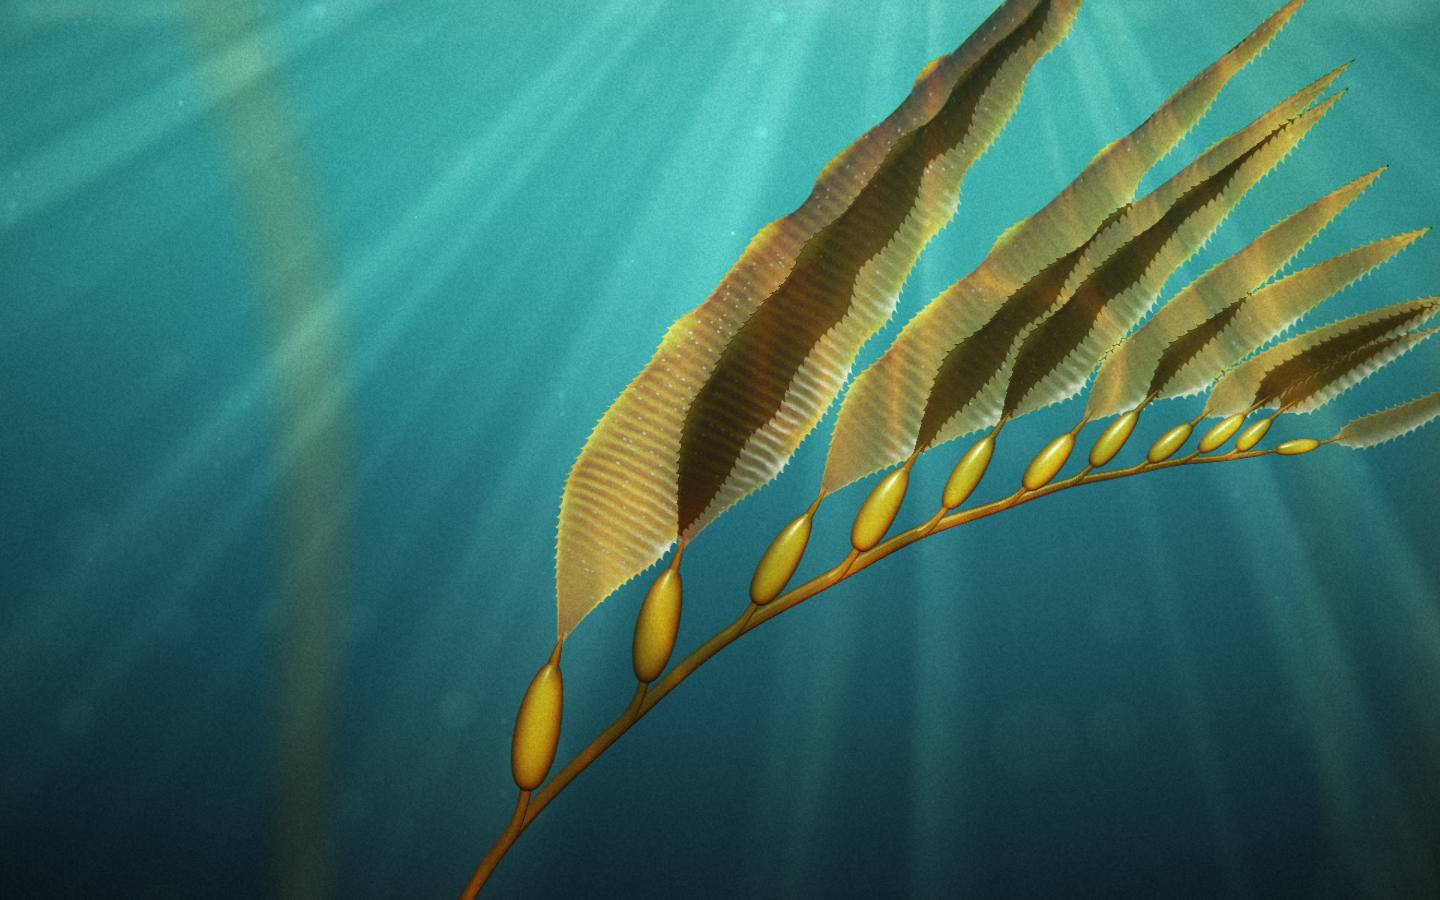
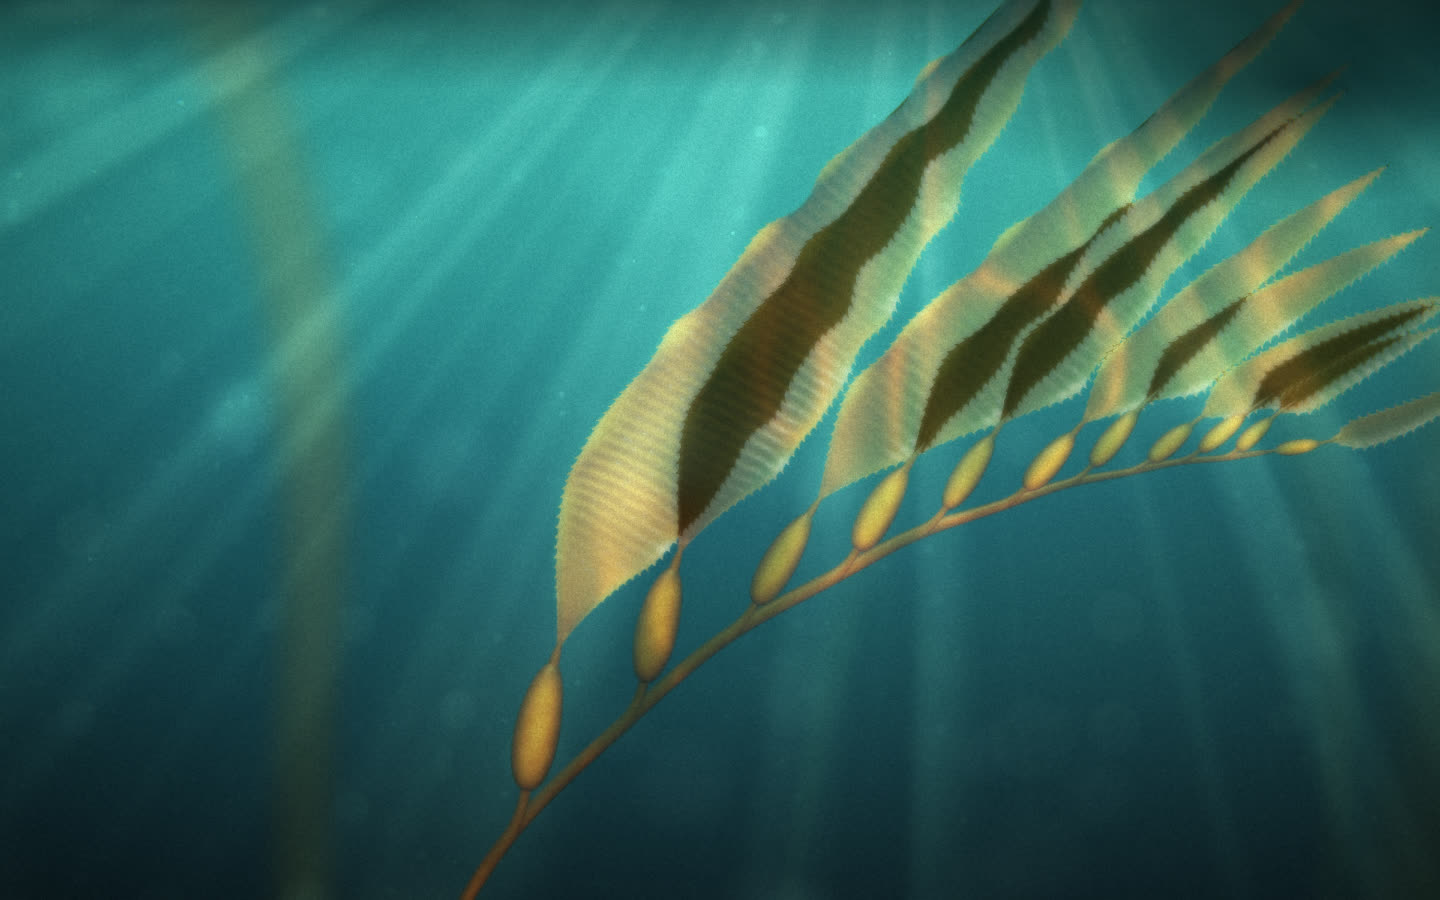
017: Kelp sits in the water, softer, with marine snow and less plastic floats

Changed region(s): [[0.0, 0.0, 1.0, 0.9333], [0.3125, 0.9644, 0.3438, 1.0]]

diff --git a/017/shaders.ts b/017/shaders.ts
@@ -3,6 +3,16 @@ export const FIELD_S = 64; // billow cells along each blade
 export const FIELD_U = 9; // and across it
 export const SPINE_W = 160; // samples per spine row
 
+// UNDERWATER
+const VEIL_MIX = 0.16; // raise for more water over the frond
+const SOFT_MIX = 0.45; // raise for a softer frond
+const HALATION_MIX = 0.55; // raise for more glow off the sunlit blades
+const BOKEH_SHARE = 0.06; // raise for more discs in front of the lens
+const BOKEH_GAIN = 0.11; // raise for brighter discs
+const GRAIN_MIX = 0.034; // raise for more grain
+const GRAIN_FROND = 0.15; // raise for more grain on the frond than the water
+const glf = (v: number) => v.toFixed(3);
+
 const HEAD = `#version 300 es
 precision highp float;
 `;
@@ -122,7 +132,7 @@ uniform vec2 uRes;
 out vec4 o;
 ${NOISE}
 void main() {
-  o = vec4(texture(uBg, gl_FragCoord.xy / uRes).rgb + (hash12(gl_FragCoord.xy) - .5) / 255., 1.);
+  o = vec4(texture(uBg, gl_FragCoord.xy / uRes).rgb + (hash12(gl_FragCoord.xy) - .5) / 255., 0.);
 }
 `;
 
@@ -190,6 +200,14 @@ vec3 sheen(vec3 N, vec3 V, float shaft, float lightY, float hard) {
   vec3 hi = vec3(1., .93, .75) * (pow(rl, hard) * 2. + pow(rl, 12.) * .25) * (.4 + 2. * shaft + lightY);
   float satin = pow(rl, 5.) * .16 + pow(max(R.y, 0.), 3.) * .06;
   return (env * .55 + hi) * fr + hi * .06 + vec3(1., .9, .7) * satin * (.4 + shaft + lightY);
+}
+// VEIL
+// the water between the eye and the frond, thicker for the far parts, so it shares the background's light
+vec3 veil(vec3 col, vec3 bg, vec3 pos, float shaft, float extra) {
+  float dist = length(uCam - pos);
+  float k = ${glf(VEIL_MIX)} + clamp((dist - uCam.z + .6) * .17, 0., .34) + clamp(-pos.z * .42, 0., .21) + extra;
+  vec3 water = bg * vec3(.78, 1.04, 1.02) + vec3(.004, .016, .016) + vec3(.03, .07, .06) * shaft;
+  return mix(col, water, clamp(k, 0., .8));
 }
 `;
 
@@ -362,20 +380,22 @@ void main() {
   vec3 col = through(tau, N, V, vPos, bg, shaft, lightY, caus);
   // the side of each pucker that faces the sun takes a little more of it
   col *= 1. + 1.1 * dot(N - N0, normalize(L));
-  // warm amber-brown, deeper than the lemon-gold stipe and floats
-  col *= vec3(1.06, .88, .66);
+  // COLOUR
+  // warm amber-brown, deeper than the lemon-gold stipe and floats, patchy from blade to blade
+  float blot = noise2(vec2(x * 3.1, sg * 1.3) + vB.z * 2.7);
+  col *= mix(vec3(1.1, .86, .58), vec3(1.02, .9, .66), blot);
   col += vec3(.012, .04, .04) * (.6 + .4 * N.y);
-  col = mix(col, vec3(.5, .54, .48) * (.25 + .5 * lightY + 1.3 * shaft), speck * .7);
-  col += sheen(N, V, shaft + caus * .4, lightY, 40.);
+  // BACKLIGHT
+  // thin tissue facing away from the sun lets it through, warmer the thinner it gets
+  float back = pow(max(dot(-V, normalize(L)), 0.), 2.) * (.4 + lightY + 1.6 * shaft);
+  col += vec3(.4, .22, .04) * exp(-tau * 2.2) * back * (.5 + 1.5 * caus);
+  col = mix(col, vec3(.5, .54, .48) * (.25 + .5 * lightY + 1.3 * shaft), speck * .55);
+  col += sheen(N, V, shaft + caus * .4, lightY, 16.) * .55; // raise for a wetter blade
   // the margin is thinner and glows amber where the sun comes through
   float rim = smoothstep(edge - .14, edge - fw, au);
   col *= 1. + .45 * rim;
   col += vec3(.35, .2, .04) * rim * (.15 + .5 * lightY + shaft) * .3;
-  // HAZE
-  // the far side of the frond sinks into the water
-  float dist = length(uCam - vPos);
-  float haze = clamp((dist - uCam.z + .6) * .16, 0., .5) + clamp(-vPos.z * .6, 0., .3);
-  col = mix(col, bg * vec3(.85, 1., 1.), haze);
+  col = veil(col, bg, vPos, shaft, s * s * .14 + e * .06);
   col *= vig(gl_FragCoord.xy / uRes);
   o = vec4(tone(col), alpha);
 }
@@ -516,28 +536,33 @@ void main() {
   // the stalk end of each bulb is older, darker olive-brown tissue
   float root = (1. - smoothstep(.12, .6, vAlong)) * vBulb;
   float blot = noise2(vec2(vS * 2.3, vPhi * .4)) * rough;
+  // MOTTLE
+  // the float wall is uneven: cloudy thicker patches and a few darker freckles
+  float mot = noise2(vec2(vPhi * 2.2, vS * 34.)) * .65 + noise2(vec2(vPhi * 6., vS * 90.)) * .35;
+  float frk = smoothstep(.72, .86, noise2(vec2(vPhi * 11., vS * 160.)));
   float tau = mix(1.35, 1.05, vBulb) + str * .15 * rough + fib * .3 * rough + blot * .3;
   tau += (1. - nv) * mix(.5, 1., vBulb) * smoothstep(0., .35, vAlong) + vAge * .15 + root * .35;
+  tau += ((mot - .5) * .5 + frk * .25) * vBulb;
   vec3 bg;
   float shaft;
   float lightY;
   float caus;
   vec3 col = through(tau, N, V, vPos, bg, shaft, lightY, caus);
   // WAX
-  // gas inside: light scatters in the wall and the far side glows softly through the near one
-  col *= 1. + vBulb * .6 * pow(nv, 1.5);
-  col += vec3(.42, .2, .04) * vBulb * (.1 + .45 * lightY + shaft + caus * .5) * nv * nv * .32;
+  // gas inside: light scatters in the wall and the far side glows warm through the near one
+  float lit = .1 + .45 * lightY + shaft + caus * .6;
+  col *= 1. + vBulb * .45 * pow(nv, 1.5);
+  col += vec3(.5, .26, .05) * vBulb * lit * smoothstep(.15, 1., nv) * (.75 + .5 * mot) * .3;
+  col += vec3(.36, .2, .05) * vBulb * lit * pow(1. - nv, 2.) * .12;
   col = mix(col, col * vec3(.7, .74, .42), root);
   col *= .95 + .1 * noise2(vec2(vPhi * 14., vS * 120.)) * rough;
   col += vec3(.015, .04, .036) * (.5 + .5 * N.y);
-  // a wet, glossy skin on the bulbs; a duller one on the stipe
-  col += sheen(N, V, shaft + caus * .5, lightY, mix(14., 70., vBulb)) * mix(.45, 1.15, vBulb);
-  // GLOSS
-  // a tight wet highlight on each bulb, with a softer bloom round it
-  float rg = max(dot(reflect(-V, N), normalize(vec3(-.3, .75, .6))), 0.);
-  col += vec3(1., .94, .8) * (pow(rg, 45.) * 2.4 + pow(rg, 9.) * .14) * vBulb * (.45 + lightY + shaft + caus);
+  // SHEEN
+  // broad and soft on the bulbs, duller still on the stipe
+  col += sheen(N, V, shaft + caus * .5, lightY, mix(14., 7., vBulb)) * mix(.45, .3, vBulb); // raise for wetter floats
   // stipe and floats glow a lemon gold, the stipe mottled along its length
-  col *= vec3(1.38, 1.04, .34) * mix(.9 + .2 * blot, 1., vBulb);
+  col *= mix(vec3(1.38, 1.04, .34) * (.9 + .2 * blot), vec3(1.3, 1., .42), vBulb);
+  col = veil(col, bg, vPos, shaft, 0.);
   col *= vig(gl_FragCoord.xy / uRes);
   o = vec4(tone(col), 1.);
 }
@@ -564,7 +589,10 @@ ${NOISE}
 ${RAYS}
 void main() {
   float snow = step(.86, fract(aSeed.w * 13.7 + aSeed.x * 3.1));
-  float z = mix(-3.2, 2.35, aSeed.z);
+  // LENS
+  // a few right in front of the camera, huge and faint
+  float lens = step(${glf(1 - BOKEH_SHARE)}, fract(aSeed.w * 7.3 + aSeed.y * 1.7)) * (1. - snow);
+  float z = mix(mix(-3.2, 2.35, aSeed.z), mix(2.6, 3.05, aSeed.z), lens);
   float dist = uCamZ - z;
   float hh = dist * uTan;
   float sp = .6 + aSeed.w;
@@ -578,12 +606,17 @@ void main() {
   gl_Position = uProj * vec4(v, 1.);
   float coc = abs(z - .25) * .55;
   float size = mix(.5 + aSeed.w * .9, 2.2 + aSeed.w * 2.4, snow) * (2.4 / dist) + coc * coc * 26.;
-  gl_PointSize = clamp(size * uDpr, 1., 90.);
-  vSoft = clamp(coc * .9, mix(.1, .45, snow), .95);
+  size = mix(size, 70. + 90. * aSeed.w, lens);
+  gl_PointSize = clamp(size * uDpr, 1., 400.);
+  vSoft = clamp(coc * .9, mix(.1, .45, snow), mix(.95, .7, lens));
   vSnow = snow * (1. - smoothstep(.3, .7, coc));
   vSeed = aSeed.w * 37.;
   float sh = rays(q * vec2(uAspect, 1.), uTime);
-  vA = (.25 + 2.6 * sh) * (.4 + .6 * (q.y * .5 + .5)) / (1. + coc * coc * 9.) * (.6 + .4 * aSeed.w) * mix(1., .55, snow);
+  // GLINT
+  // fine dust flashes as it turns in a shaft
+  float glint = 1. + 2.5 * sh * pow(noise1(uTime * 1.3 + aSeed.x * 91.), 6.) * (1. - snow);
+  vA = (.25 + 2.6 * sh) * (.4 + .6 * (q.y * .5 + .5)) / (1. + coc * coc * 9.) * (.6 + .4 * aSeed.w) * mix(1., .55, snow) * glint;
+  vA = mix(vA, (${glf(BOKEH_GAIN)} + .6 * sh) * (.5 + .5 * (q.y * .5 + .5)) * (.6 + .4 * aSeed.x), lens);
 }
 `;
 
@@ -601,7 +634,20 @@ void main() {
   float d = length(c) * 2. + rag;
   float disc = 1. - smoothstep(1. - vSoft, 1., d);
   float rim = smoothstep(.6, .95, d) * disc * step(.4, vSoft) * (1. - vSnow);
-  o = vec4(mix(vec3(.6, .8, .72), vec3(.82, .86, .78), vSnow) * vA * (disc * .5 + rim * .12), 1.);
+  o = vec4(mix(vec3(.6, .8, .72), vec3(.82, .86, .78), vSnow) * vA * (disc * .5 + rim * .12), 0.);
+}
+`;
+
+// SOFT
+// the scene at half resolution through a small box, alpha carrying where the frond is
+export const SOFT_FS = `${HEAD}
+uniform sampler2D uScene;
+uniform vec2 uRes;
+out vec4 o;
+void main() {
+  vec2 uv = gl_FragCoord.xy / uRes;
+  vec2 k = .5 / uRes;
+  o = (texture(uScene, uv + k) + texture(uScene, uv - k) + texture(uScene, uv + vec2(k.x, -k.y)) + texture(uScene, uv - vec2(k.x, -k.y))) * .25;
 }
 `;
 
@@ -611,11 +657,13 @@ void main() {
 export const POST_FS = `${HEAD}
 uniform sampler2D uScene;
 uniform sampler2D uBg;
+uniform sampler2D uSoft;
 uniform vec2  uRes;
 uniform float uTime;
 uniform float uRipple; // wobble, device px
 uniform float uFringe; // colour split at the corners, device px
 uniform float uGrain; // grain clump size, device px
+uniform float uBlur; // soft focus radius, device px
 out vec4 o;
 ${NOISE}
 void main() {
@@ -631,9 +679,21 @@ void main() {
   vec2 c = uv - .5;
   float edge = dot(c, c);
   vec2 ca = c * edge * uFringe * 5.6 / uRes;
-  vec3 col = texture(uScene, uv).rgb;
+  vec4 sc = texture(uScene, uv);
+  vec3 col = sc.rgb;
   // the split only shows near the frame edge, so the middle skips the extra taps
   if (edge > .07) col.rb = vec2(texture(uScene, uv + ca).r, texture(uScene, uv - ca).b);
+  // SOFT FOCUS
+  // the frond seen through a hand of water: never pixel-sharp, and the sunlit blades bloom
+  vec2 k = uBlur / uRes;
+  vec4 sf = texture(uSoft, uv + k * vec2(1., .4)) + texture(uSoft, uv - k * vec2(1., .4)) + texture(uSoft, uv + k * vec2(-.4, 1.)) + texture(uSoft, uv - k * vec2(-.4, 1.));
+  sf *= .25;
+  vec2 k2 = k * 2.8;
+  vec4 hl = texture(uSoft, uv + k2 * vec2(.7, .7)) + texture(uSoft, uv - k2 * vec2(.7, .7)) + texture(uSoft, uv + k2 * vec2(-.95, .3)) + texture(uSoft, uv - k2 * vec2(-.95, .3));
+  hl *= .25;
+  float m = max(sc.a, sf.a);
+  col = mix(col, sf.rgb, .15 + ${glf(SOFT_MIX)} * m);
+  col += max(hl.rgb - .48, 0.) * vec3(1., .84, .58) * (.25 + .75 * hl.a) * ${glf(HALATION_MIX)};
   // SCATTER
   // the shafts bleed a little light into the water round them
   vec2 r = vec2(uRes.y / uRes.x, 1.) * .022;
@@ -652,7 +712,7 @@ void main() {
   // GRAIN
   // soft clumps like film, a little sharp speckle on top
   float g = (noise2(gl_FragCoord.xy / uGrain + fract(t * 7.31) * 613.) - .5) * 1.7 + (hash12(gl_FragCoord.xy + fract(t * 3.17) * 271.) - .5) * .5;
-  col += g * .042 * (.35 + lum); // change grain strength here
+  col += g * ${glf(GRAIN_MIX)} * (.35 + lum) * (1. + ${glf(GRAIN_FROND)} * m);
   o = vec4(col, 1.);
 }
 `;

diff --git a/017/kelp.ts b/017/kelp.ts
@@ -11,6 +11,7 @@ import {
   MOTE_VS,
   NB,
   POST_FS,
+  SOFT_FS,
   SPINE_W,
   TUBE_FS,
   TUBE_VS,
@@ -27,7 +28,7 @@ const SEG_S = 200;
 const SEG_U = 22;
 const RING_S = 192;
 const RING_A = 20;
-const MOTES = 720;
+const MOTES = 1000; // raise for denser marine snow
 const STEP_S = 1 / 120;
 const STILL_T_S = 14; // the moment shown under reduced motion
 const STIPE_R = 0.02;
@@ -36,6 +37,7 @@ const KERNEL = [0.1, 0.35, 0.75, 1, 0.75, 0.35, 0.1];
 const RIPPLE_PX = 1.1; // css px the frame wobbles by
 const FRINGE_PX = 1.3; // css px of colour split at the corners
 const GRAIN_PX = 1.5; // css px per grain clump
+const BLUR_PX = 2.2; // raise for a wider soft focus, css px
 const ZIG_RAD = 0.07; // the stipe bends away from each float by this much
 const ZIG_ROUND = 0.4; // each bend is rounded over this fraction of the gap to the next node
 const GAP_R = 0.84; // each gap along the stipe is this much shorter than the one before
@@ -92,6 +94,8 @@ export class Kelp {
   private tubeProg: WebGLProgram;
   private moteProg: WebGLProgram;
   private postProg: WebGLProgram;
+  private softProg: WebGLProgram;
+  private uso: Record<string, WebGLUniformLocation | null>;
   private upo: Record<string, WebGLUniformLocation | null>;
   private ubg: Record<string, WebGLUniformLocation | null>;
   private ucp: Record<string, WebGLUniformLocation | null>;
@@ -117,6 +121,10 @@ export class Kelp {
   private colorRb: WebGLRenderbuffer | null = null;
   private depthRb: WebGLRenderbuffer | null = null;
   private samples: number;
+  private softFbo: WebGLFramebuffer;
+  private softTex: WebGLTexture | null = null;
+  private softW = 1;
+  private softH = 1;
   private sceneW = 0;
   private sceneH = 0;
   private dropAll: number[];
@@ -233,6 +241,7 @@ export class Kelp {
     this.tubeProg = program(gl, TUBE_VS, TUBE_FS);
     this.moteProg = program(gl, MOTE_VS, MOTE_FS);
     this.postProg = program(gl, FULL_VS, POST_FS);
+    this.softProg = program(gl, FULL_VS, SOFT_FS);
     const lit = [
       "uBg",
       "uRes",
@@ -267,7 +276,10 @@ export class Kelp {
       "uRipple",
       "uFringe",
       "uGrain",
+      "uSoft",
+      "uBlur",
     ]);
+    this.uso = uniforms(gl, this.softProg, ["uScene", "uRes"]);
     this.umo = uniforms(gl, this.moteProg, [
       "uProj",
       "uTime",
@@ -305,6 +317,7 @@ export class Kelp {
     this.bgFbo = gl.createFramebuffer();
     this.sceneFbo = gl.createFramebuffer();
     this.resolveFbo = gl.createFramebuffer();
+    this.softFbo = gl.createFramebuffer();
     this.samples = opts.dpr < 1.5 ? Math.min(4, gl.getParameter(gl.MAX_SAMPLES) as number) : 0;
     this.dropAll = [gl.COLOR_ATTACHMENT0, gl.DEPTH_STENCIL_ATTACHMENT];
     this.dropDepth = [gl.DEPTH_STENCIL_ATTACHMENT];
@@ -930,8 +943,9 @@ export class Kelp {
     gl.disable(gl.CULL_FACE);
 
     // BLADES
+    // alpha keeps the frond's coverage for the soft focus in post
     gl.enable(gl.BLEND);
-    gl.blendFunc(gl.SRC_ALPHA, gl.ONE_MINUS_SRC_ALPHA);
+    gl.blendFuncSeparate(gl.SRC_ALPHA, gl.ONE_MINUS_SRC_ALPHA, gl.ONE, gl.ONE_MINUS_SRC_ALPHA);
     gl.useProgram(this.bladeProg);
     this.lit(this.ubl, w, h, sunX, sunY);
     gl.uniform1i(this.ubl.uField, 2);
@@ -1005,21 +1019,32 @@ export class Kelp {
       gl.blitFramebuffer(0, 0, w, h, 0, 0, w, h, gl.COLOR_BUFFER_BIT, gl.NEAREST);
       gl.invalidateFramebuffer(gl.READ_FRAMEBUFFER, this.dropAll);
     } else gl.invalidateFramebuffer(gl.READ_FRAMEBUFFER, this.dropDepth);
-    gl.bindFramebuffer(gl.FRAMEBUFFER, null);
     gl.disable(gl.DEPTH_TEST);
-    gl.useProgram(this.postProg);
+    gl.bindVertexArray(this.empty);
     gl.activeTexture(gl.TEXTURE3);
     gl.bindTexture(gl.TEXTURE_2D, this.sceneTex);
+    gl.activeTexture(gl.TEXTURE4);
+    gl.bindTexture(gl.TEXTURE_2D, this.softTex);
     gl.activeTexture(gl.TEXTURE0);
+    gl.bindFramebuffer(gl.FRAMEBUFFER, this.softFbo);
+    gl.viewport(0, 0, this.softW, this.softH);
+    gl.useProgram(this.softProg);
+    gl.uniform1i(this.uso.uScene, 3);
+    gl.uniform2f(this.uso.uRes, this.softW, this.softH);
+    gl.drawArrays(gl.TRIANGLES, 0, 3);
+    gl.bindFramebuffer(gl.FRAMEBUFFER, null);
+    gl.viewport(0, 0, w, h);
+    gl.useProgram(this.postProg);
     const u = this.upo;
     gl.uniform1i(u.uScene, 3);
     gl.uniform1i(u.uBg, 0);
+    gl.uniform1i(u.uSoft, 4);
+    gl.uniform1f(u.uBlur, BLUR_PX * this.dpr);
     gl.uniform2f(u.uRes, w, h);
     gl.uniform1f(u.uTime, this.t);
     gl.uniform1f(u.uRipple, this.reducedMotion ? 0 : RIPPLE_PX * this.dpr);
     gl.uniform1f(u.uFringe, FRINGE_PX * this.dpr);
     gl.uniform1f(u.uGrain, GRAIN_PX * this.dpr);
-    gl.bindVertexArray(this.empty);
     gl.drawArrays(gl.TRIANGLES, 0, 3);
   }
 
@@ -1035,6 +1060,15 @@ export class Kelp {
     gl.bindTexture(gl.TEXTURE_2D, this.sceneTex);
     gl.texStorage2D(gl.TEXTURE_2D, 1, gl.RGBA8, w, h);
     params(gl, gl.LINEAR);
+    if (this.softTex) gl.deleteTexture(this.softTex);
+    this.softW = Math.max(1, w >> 1);
+    this.softH = Math.max(1, h >> 1);
+    this.softTex = gl.createTexture();
+    gl.bindTexture(gl.TEXTURE_2D, this.softTex);
+    gl.texStorage2D(gl.TEXTURE_2D, 1, gl.RGBA8, this.softW, this.softH);
+    params(gl, gl.LINEAR);
+    gl.bindFramebuffer(gl.FRAMEBUFFER, this.softFbo);
+    gl.framebufferTexture2D(gl.FRAMEBUFFER, gl.COLOR_ATTACHMENT0, gl.TEXTURE_2D, this.softTex, 0);
     this.depthRb = gl.createRenderbuffer();
     gl.bindRenderbuffer(gl.RENDERBUFFER, this.depthRb);
     gl.bindFramebuffer(gl.FRAMEBUFFER, this.sceneFbo);
@@ -1119,6 +1153,9 @@ export class Kelp {
     if (this.bgTex) gl.deleteTexture(this.bgTex);
     gl.deleteFramebuffer(this.bgFbo);
     gl.deleteProgram(this.postProg);
+    gl.deleteProgram(this.softProg);
+    gl.deleteFramebuffer(this.softFbo);
+    if (this.softTex) gl.deleteTexture(this.softTex);
     gl.deleteFramebuffer(this.sceneFbo);
     gl.deleteFramebuffer(this.resolveFbo);
     if (this.sceneTex) gl.deleteTexture(this.sceneTex);
